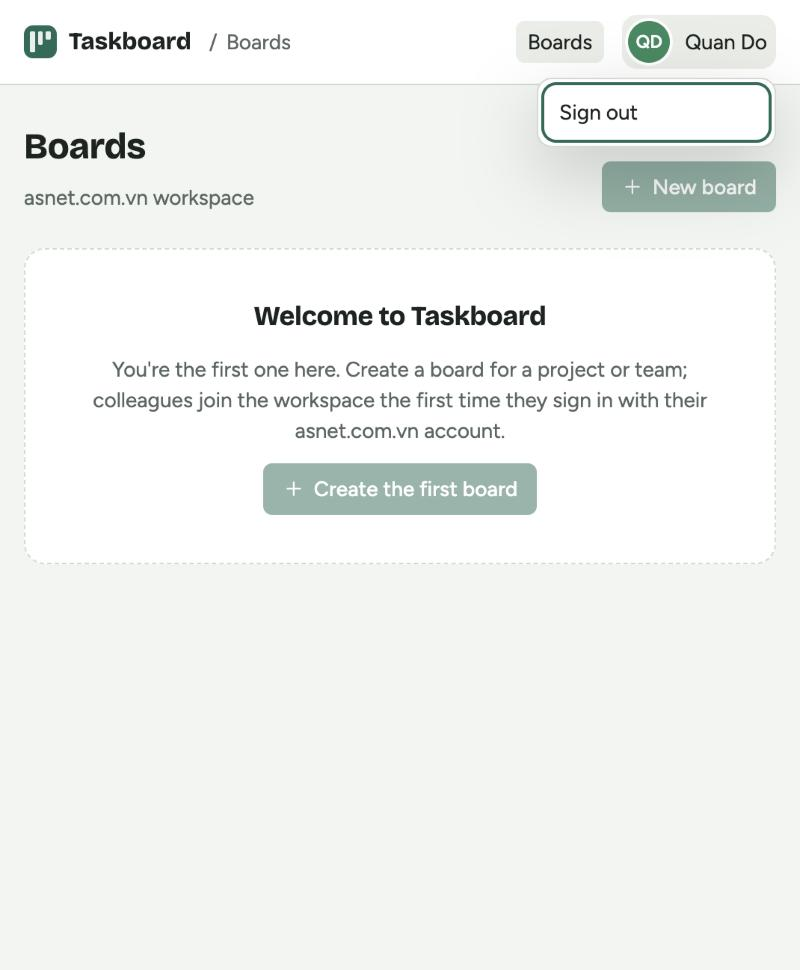
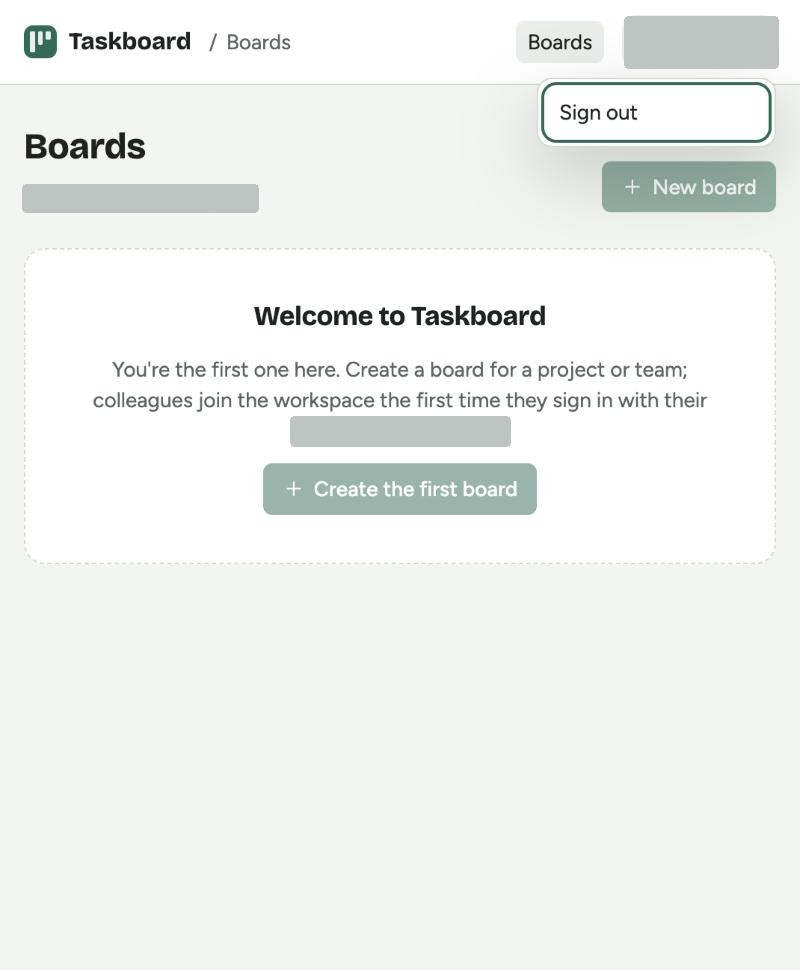
docs: add redacted G1 sign-in screenshots
The M1 manual check (a real Workspace sign-in accepted, a personal
Gmail account refused with missing_hd) passed on 19 Nov 2026. Both
screenshots go under docs/screenshots/g1 with a short note of what each
attempt showed and wrote to auth_events.

Grey blocks cover the company domain and the owner's name, which the
repository does not hold. The #42 account menu screenshot showed the
same details and is covered the same way.

Refs: #43

Changed region(s): [[0.7812, 0.0, 1.0, 0.0928], [0.3438, 0.4021, 0.6562, 0.4639], [0.0312, 0.1856, 0.3438, 0.2165]]

diff --git a/docs/screenshots/g1/README.md b/docs/screenshots/g1/README.md
@@ -1,0 +1,16 @@
+# G1 manual sign-in check
+
+M1 Done-when: the owner signs in once with a real Workspace account and once with a personal
+Gmail account (refused). Run on 19 Nov 2026 against `dev` with `docker compose up --build` and a
+real Google sign-in.
+
+| Screenshot | Attempt | Result | `auth_events` row |
+| --- | --- | --- | --- |
+| `signin-workspace-accepted.jpg` | Workspace account on the allowed domain | Lands on Boards (empty), signed in | `accepted` |
+| `signin-gmail-refused.jpg` | Personal Gmail account | Sign-in refused page, reason "not an … Workspace account" | `refused`, `missing_hd` |
+
+Grey blocks cover the company domain and the owner's name, which the repository does not hold
+(the domain lives only in `.env`). Nothing else was changed in the screenshots.
+
+The accepted sign-in matched the existing user by Google `sub`, so no new user was created; the
+refused sign-in created no user and no session.
